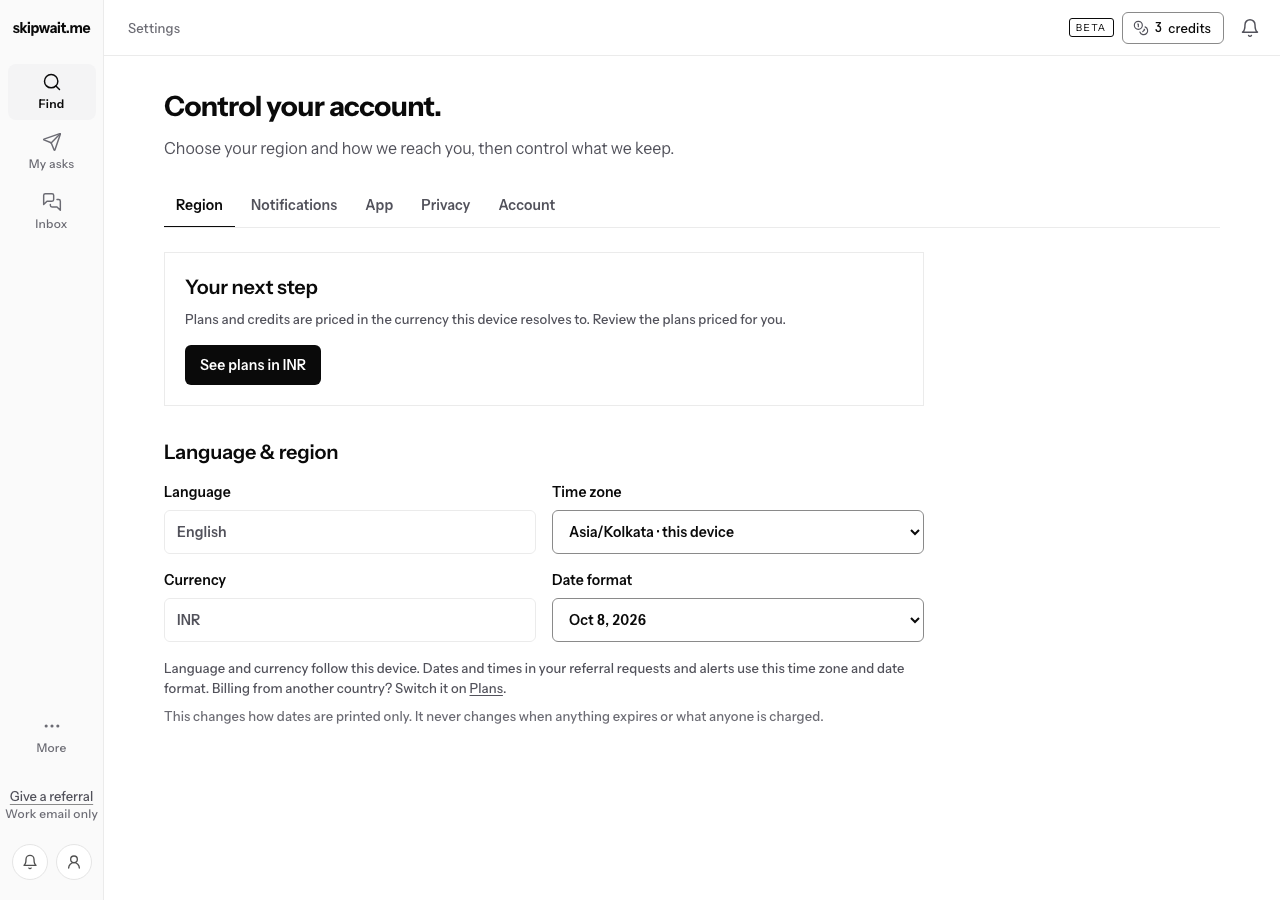
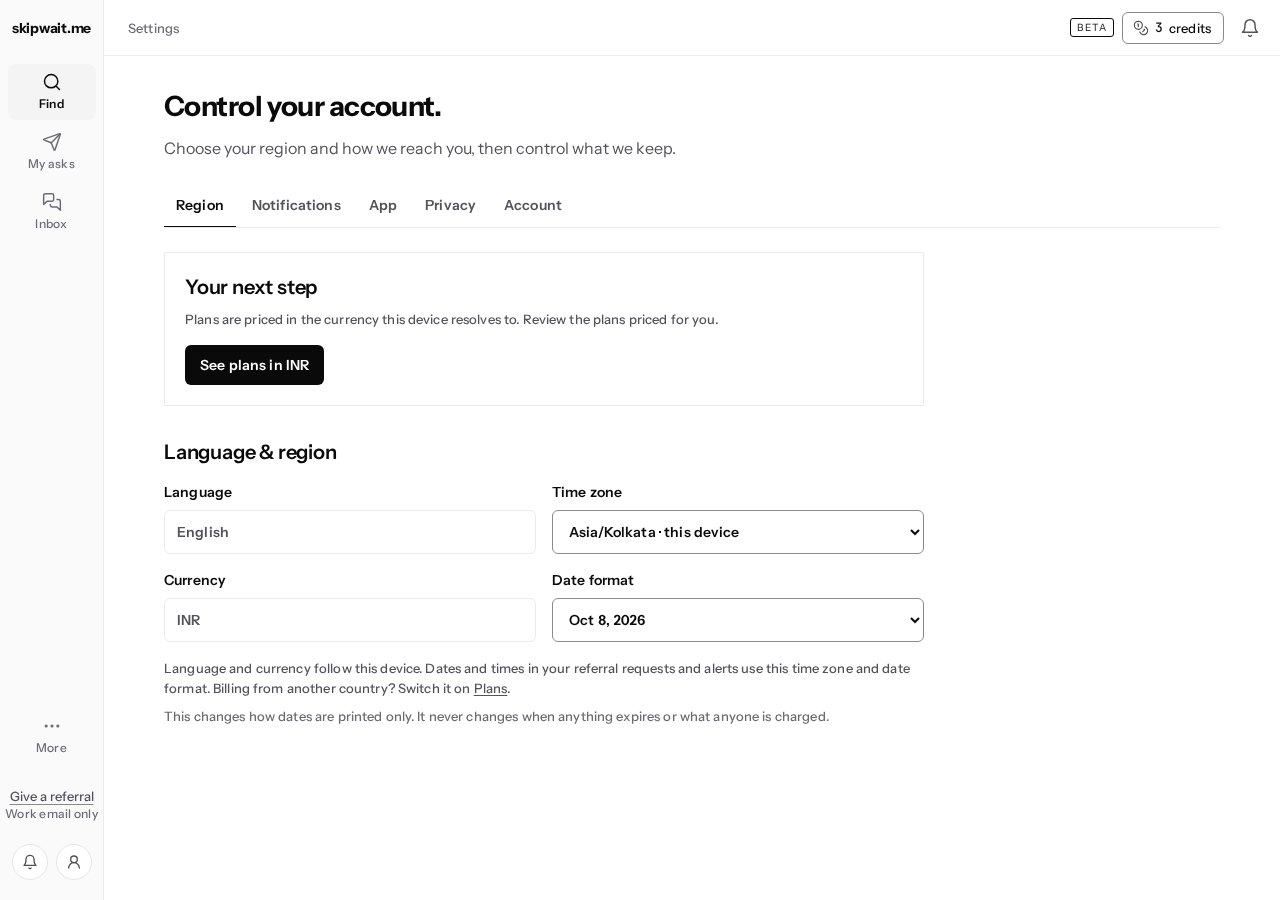
D-048-p3-settings: no credits in the Region next step (F1); no guessed unlock cost or retention before the consent state answers (F2)
F1: the Region next-step reason drops 'and credits' (D-180); region captures
retaken at 1280 and 390 from the committed fixture.
F2: the talent-consent cost sentence and retention line render only once the
server state arrives; the wording itself stays mirrored from the kit panel
for the terminology lane (D-173/D-180, PR #598). Privacy captures are
unchanged: their fixture carries the same 5/30/90 the old fallbacks showed.

diff --git a/client/src/pages/goal/settings/privacyPanels.tsx b/client/src/pages/goal/settings/privacyPanels.tsx
@@ -66,10 +66,10 @@ export function TalentConsentPanel() {
   return (
     <section data-skipwait-screen="talent-consent" className="mt-8">
       <h3 className="text-g-heading text-g-ink">Talent discovery consent</h3>
-      <p className="mt-2 text-g-meta text-g-ink-2">Preview and control what approved employers can see. skipwait.me uses this only for anonymous talent discovery and employer introduction requests. Employers may spend <GoalNum>{state?.unlockCreditCost ?? 5}</GoalNum> credits to unlock the exact approved snapshot for <GoalNum>{state?.unlockDays ?? 30}</GoalNum> days. You choose whether to respond to contact requests.</p>
+      <p className="mt-2 text-g-meta text-g-ink-2">Preview and control what approved employers can see. skipwait.me uses this only for anonymous talent discovery and employer introduction requests.{state ? <> Employers may spend <GoalNum>{state.unlockCreditCost}</GoalNum> credits to unlock the exact approved snapshot for <GoalNum>{state.unlockDays}</GoalNum> days.</> : null} You choose whether to respond to contact requests.</p>
       <dl className="mt-4 border border-g-hairline p-3 text-g-meta text-g-ink-2">
         <div><dt className="inline font-semibold text-g-ink">Audience: </dt><dd className="inline">{state?.audience ?? "Approved employers on skipwait.me"}</dd></div>
-        <div><dt className="inline font-semibold text-g-ink">Retention: </dt><dd className="inline">Discovery consent records are retained for {state?.retentionDays ?? 90} days for access history and safety controls.</dd></div>
+        <div><dt className="inline font-semibold text-g-ink">Retention: </dt><dd className="inline">{state ? `Discovery consent records are retained for ${state.retentionDays} days for access history and safety controls.` : "Loading the current retention period"}</dd></div>
         <div><dt className="inline font-semibold text-g-ink">Policy: </dt><dd className="inline">{state?.policyVersion ?? "Loading current policy"}</dd></div>
       </dl>
       <fieldset className="mt-4">

diff --git a/client/src/pages/goal/settings/RegionSection.tsx b/client/src/pages/goal/settings/RegionSection.tsx
@@ -61,7 +61,7 @@ export default function RegionSection() {
 
   return (
     <>
-      <GoalNextStep reason="Plans and credits are priced in the currency this device resolves to. Review the plans priced for you.">
+      <GoalNextStep reason="Plans are priced in the currency this device resolves to. Review the plans priced for you.">
         <GoalButton className="mt-4" variant="primary" touch="large" asChild>
           <Link href="/plans">See plans in {currency}</Link>
         </GoalButton>
